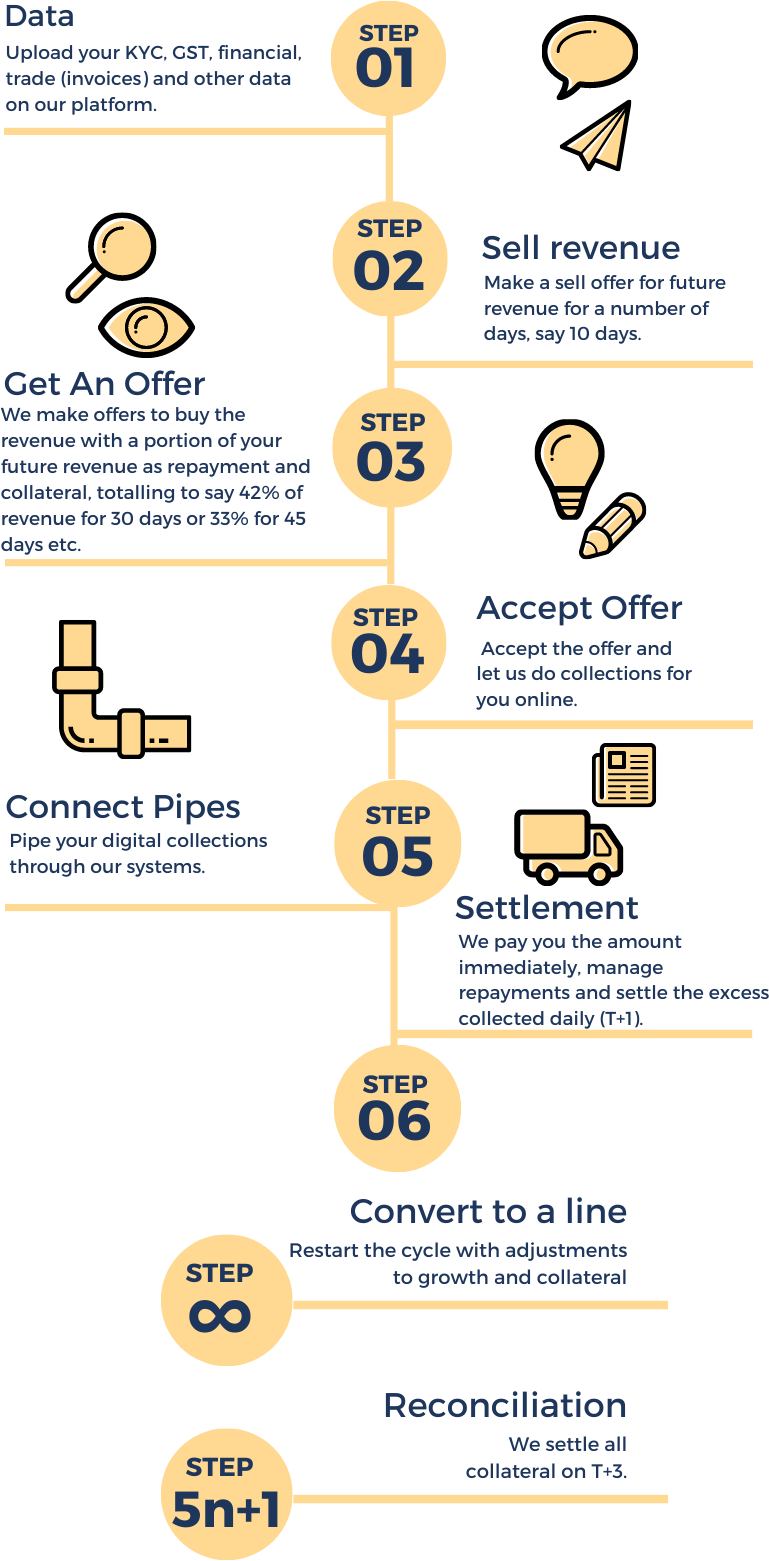
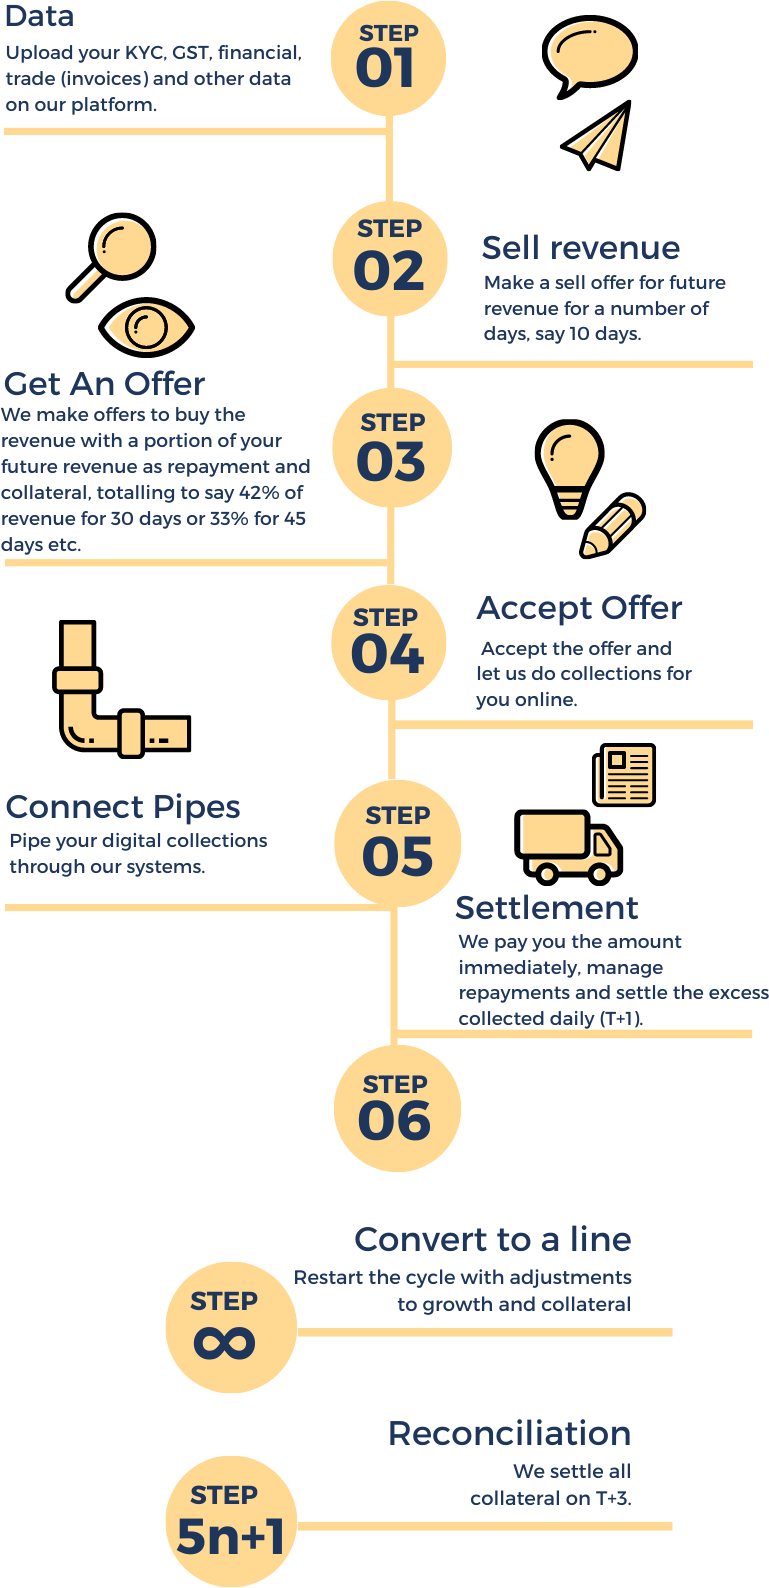
dark to light

diff --git a/src/components/intro/intro.tsx b/src/components/intro/intro.tsx
@@ -108,6 +108,7 @@ function Intro(props: IntroProps) {
           </Cell>
         </Grid>
       </div>
+      <p className={styles.revenueHeader}>Grow your Business</p>
       <Grid
         columns={s ? 1 : 10}
         rows={s ? 2 : 1}
@@ -118,8 +119,7 @@ function Intro(props: IntroProps) {
         </Cell>
         <Cell width={s ? 1 : 5} top={s ? 1 : 1} enter middle>
           <Content className={styles.revenueDesc}>
-            <h1>Grow your Business</h1>
-            <h2>with revenue financing</h2>
+            <h2>Revenue financing</h2>
             <ul>
               <li><p className={styles.revenueDescList}>Credit Limit upto ₹50lac</p></li>
               <li><p className={styles.revenueDescList}>Easy Onboarding</p></li>

diff --git a/src/components/intro/intro.module.css b/src/components/intro/intro.module.css
@@ -108,6 +108,12 @@
     margin-top: 50px;
   }
 
+  .revenueHeader {
+    font-size: 35pt;
+    font-weight: bold;
+    color: #6d4c44;
+  }
+
   .revenueImage {
     object-fit: contain;
     max-height: 1000px;
@@ -149,7 +155,7 @@
     font-size: 35pt;
     font-weight: bold;
     color: #6d4c44;
-    margin-top: 200px;
+    margin-top: 100px;
   }
 
   .earlypayDesc {
